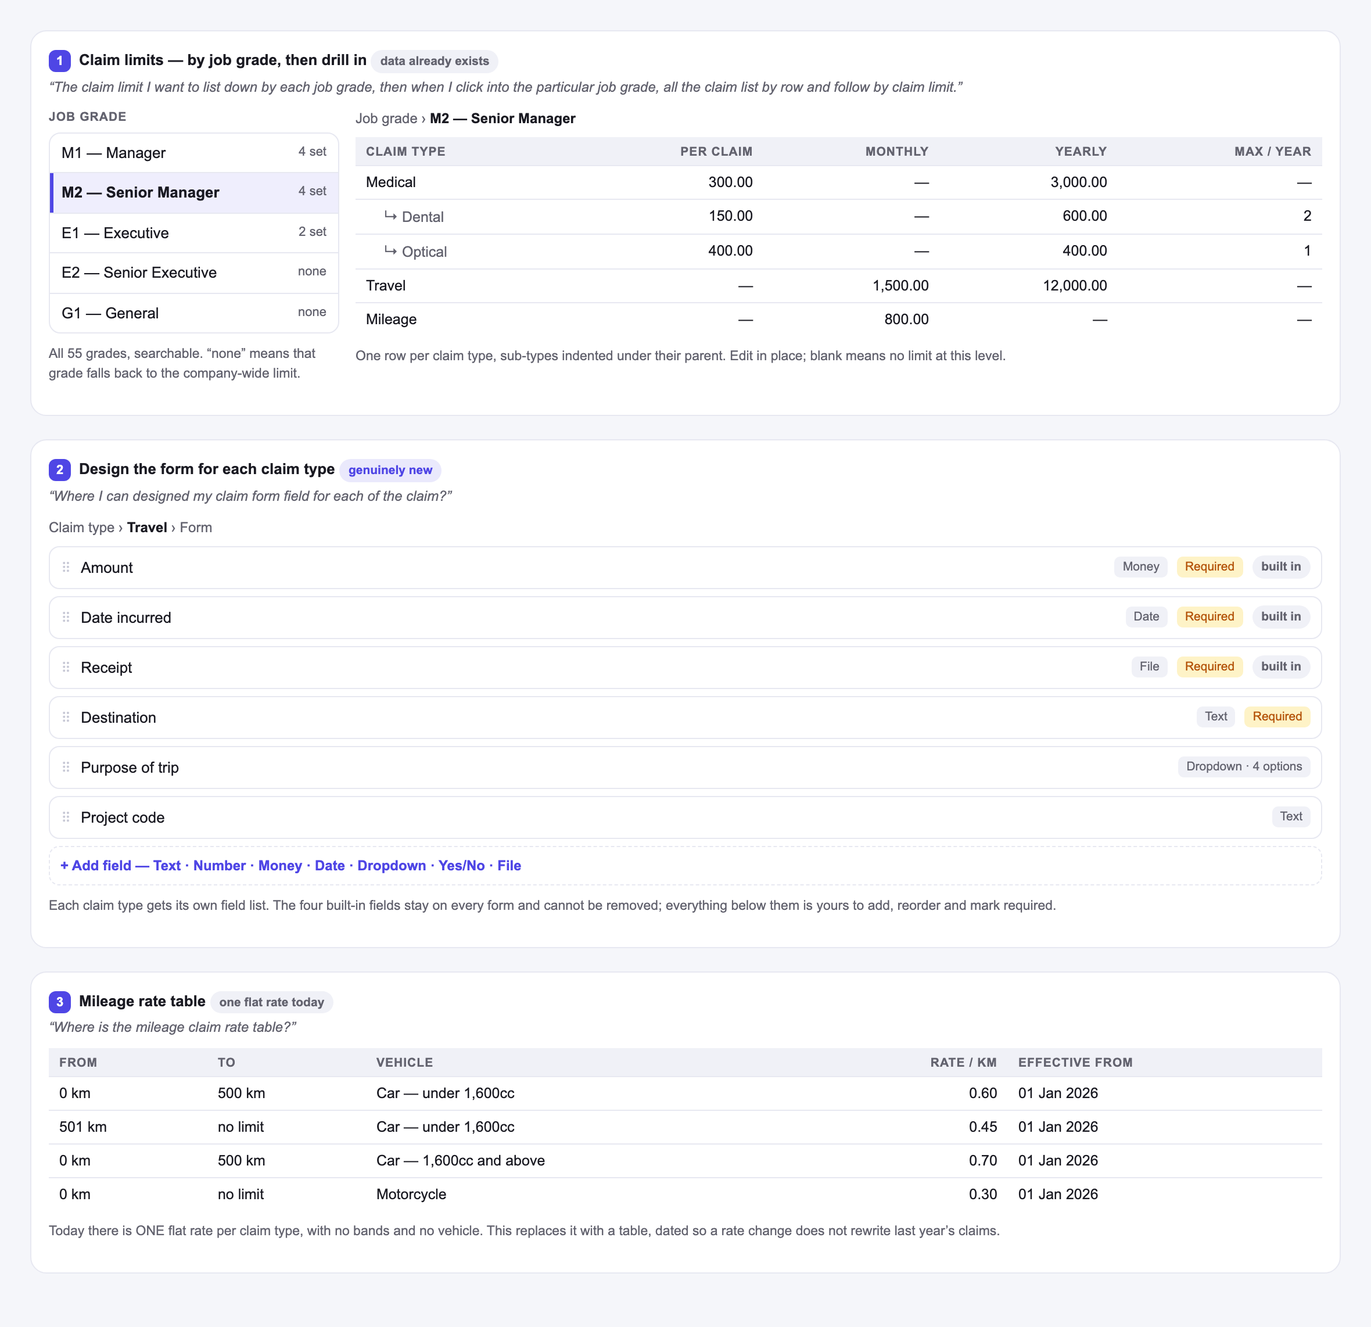
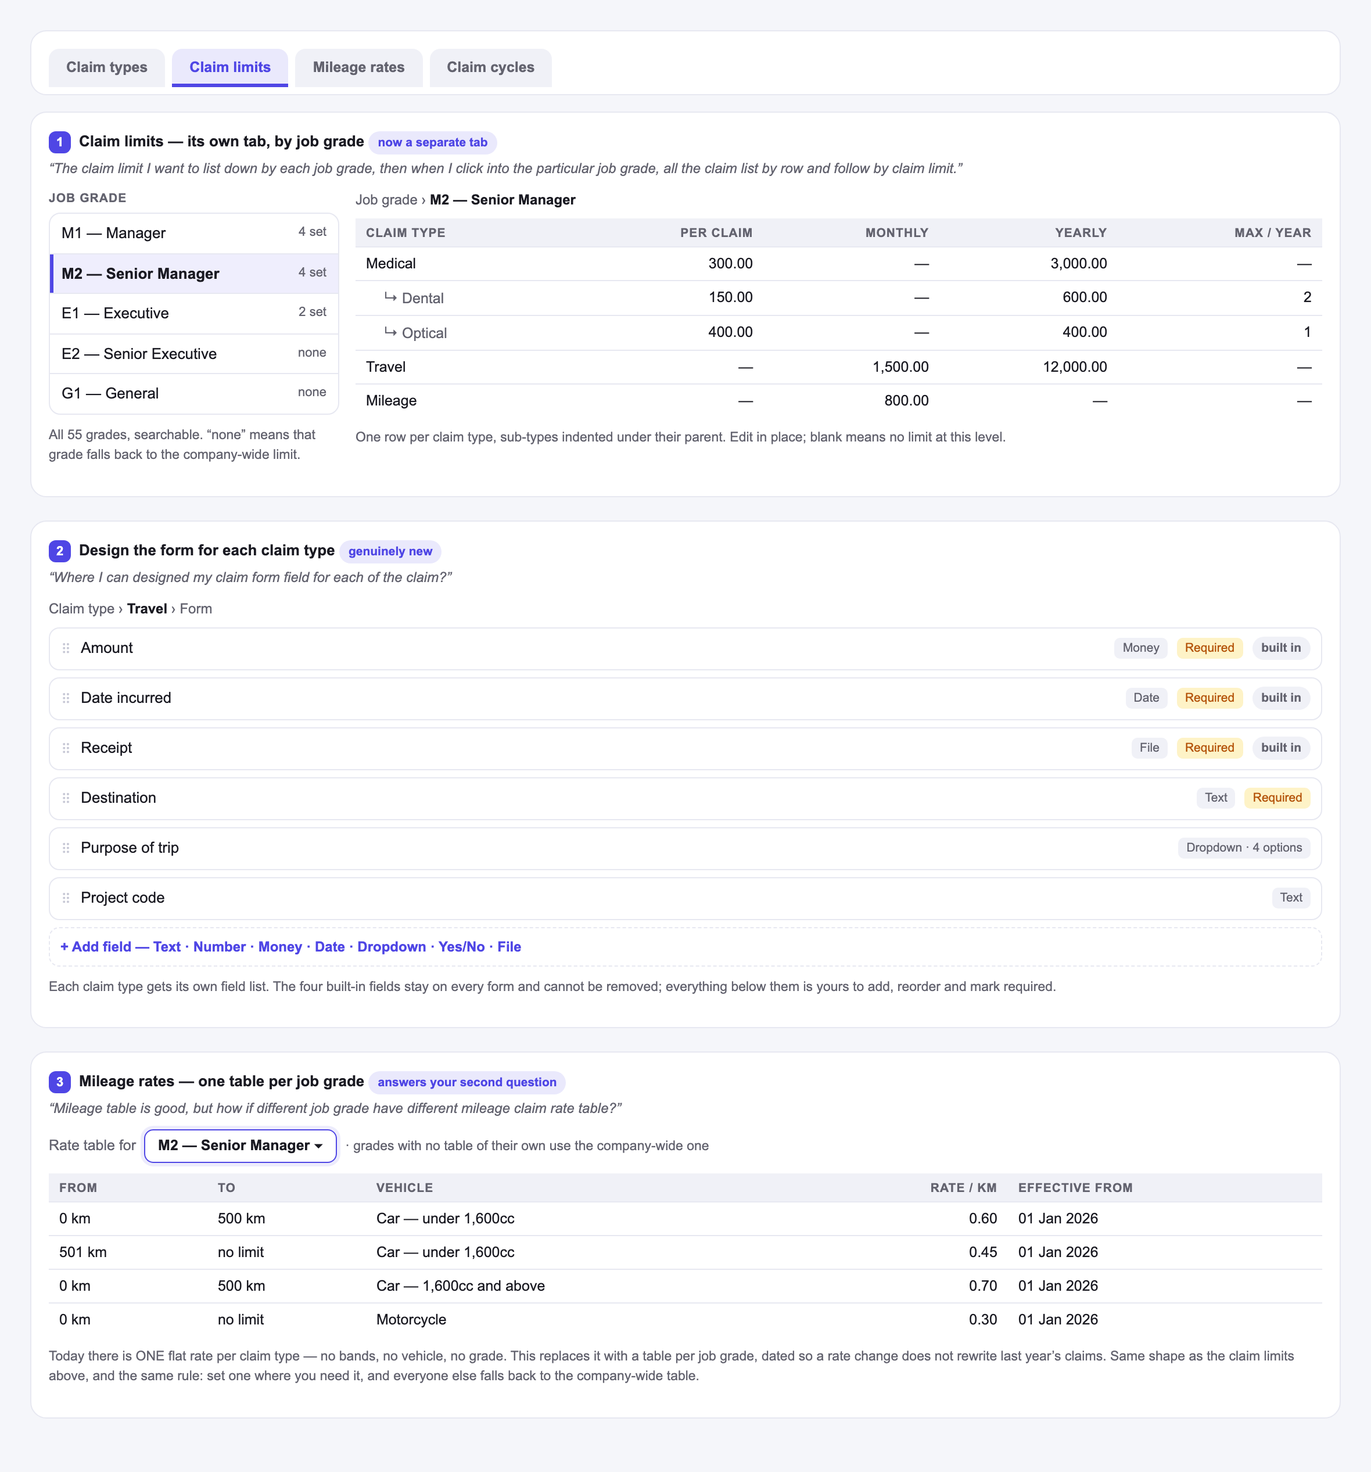
docs/mockups: six items planned, each with a mockup
Reproducing first changed the answer on five of the six:

- 2da9937a (Formula Builder): ALREADY SHIPPED as 61bf109d. core/pay-rule.ts carries a `formula` kind,
  a fixed operand set and a validator; app/admin/pay-components/pay-rule-editor.tsx is the UI;
  test/pay-item-formula.test.ts asserts ringgit figures. Production: 17 of 18 pay components have NO
  rule and ZERO use formula. The two real gaps are both hit by the reporter's own worked example —
  division by a named input is refused outright (deliberately: zero hours would abort the batch), and
  there is no aggregate "all fixed allowances" operand.
- b8aa3466 (attendance): point 1 asks to delete the company work-schedule section as "no longer
  required". 30 of 31 active employees have NO shift — that section is their only schedule on any
  unrostered day, and the calc rules cannot supply a start time. Sequenced, not refused.
- efe1d230 (remove Workflow Guide): the page is not informational. It hosts the eight-check
  per-company readiness report; core/payroll-readiness.ts:330 says Settings runs a cheap subset
  "because it must stay fast … the full per-company report stays on /payroll/guide".
- 6a1f2bd6 + 6d72816e (Zakat, Loans): the two screens cited as the consistent model are not
  consistent with each other — Individual uses the shared collapsible panel, Fixed has its own
  192-line near-copy. And Loans is under Admin, not Payroll › Transaction as the ticket states.
[…]

diff --git a/docs/mockups/txn-employee-panel.html b/docs/mockups/txn-employee-panel.html
@@ -1,0 +1,92 @@
+<meta charset="utf-8">
+<title>One employee panel across the Payroll Transaction screens</title>
+<!--
+  Shared mockup for 6a1f2bd6 (Zakat) and 6d72816e (Loans); the same design da4af51f already carries for
+  Individual Payslip. Deliberately ONE picture for all three, because the point of the plan is that they
+  become one component rather than three lookalikes.
+  Tokens from app/globals.css; everything inline.
+-->
+<style>
+  :root{--bg:#f5f6fa;--fg:#1a1a22;--card:#fff;--primary:#4f46e5;--muted:#f0f1f7;--mf:#63636f;--border:#e7e8f1}
+  *{box-sizing:border-box}
+  body{margin:0;padding:26px;background:var(--bg);color:var(--fg);
+       font:13px/1.5 ui-sans-serif,-apple-system,"Segoe UI",Roboto,Arial,sans-serif}
+  .card{background:var(--card);border:1px solid var(--border);border-radius:14px;padding:16px;margin-bottom:18px}
+  h2{font-size:14px;margin:0 0 4px}
+  .sub{font-size:11.5px;color:var(--mf);margin:0 0 12px}
+  .split{display:grid;grid-template-columns:232px 1fr;gap:16px}
+  .lbl{font-size:10.5px;text-transform:uppercase;letter-spacing:.05em;color:var(--mf);font-weight:600;margin-bottom:5px}
+  input,select{width:100%;padding:6px 9px;border:1px solid var(--border);border-radius:8px;font:inherit;background:#fff;font-size:12px}
+  .filters{display:grid;gap:6px;margin:8px 0}
+  ul{list-style:none;margin:0;padding:0;border:1px solid var(--border);border-radius:10px;overflow:hidden}
+  li{padding:7px 10px;border-bottom:1px solid var(--border);font-size:12.5px}
+  li:last-child{border-bottom:0}
+  li.on{background:color-mix(in srgb,var(--primary) 9%,white);box-shadow:inset 3px 0 0 var(--primary)}
+  .who{font-weight:600}
+  .code{color:var(--mf);font-size:11px}
+  .hide{float:right;color:var(--primary);font-weight:600;font-size:11px}
+  table{width:100%;border-collapse:collapse;font-size:12.5px}
+  th{text-align:left;font-size:10.5px;text-transform:uppercase;letter-spacing:.05em;color:var(--mf);
+     font-weight:600;padding:6px 9px;background:var(--muted)}
+  td{padding:7px 9px;border-top:1px solid var(--border)}
+  .r{text-align:right}
+  .act{color:var(--primary);font-weight:600}
+  .chip{display:inline-block;padding:2px 8px;border-radius:999px;font-size:10.5px;font-weight:600}
+  .ok{background:#d1fae5;color:#065f46}
+  .new{background:color-mix(in srgb,var(--primary) 12%,white);color:var(--primary)}
+  .have{background:var(--muted);color:var(--mf)}
+  .note{font-size:11.5px;color:var(--mf);margin-top:10px}
+  .grid3{display:grid;grid-template-columns:repeat(4,1fr);gap:10px;margin-top:10px}
+  .box{border:1px solid var(--border);border-radius:10px;padding:10px}
+  .box .k{font-weight:600;font-size:12.5px}
+  .box .v{font-size:11.5px;color:var(--mf);margin-top:3px}
+</style>
+
+<div class="card">
+  <h2>The panel, on Zakat <span class="chip new">proposed</span></h2>
+  <p class="sub">Loans is the same screen with a different table. So is Individual Payslip.</p>
+  <div class="split">
+    <div>
+      <div class="lbl">Find employee <span class="hide">‹ Hide</span></div>
+      <input value="tan" aria-label="Search by ID or name">
+      <div class="filters">
+        <select><option>All companies</option></select>
+        <select><option>Finance</option></select>
+        <select><option>Active</option></select>
+      </div>
+      <ul>
+        <li class="on"><div class="who">John Tan</div><div class="code">T100001 · Finance</div></li>
+        <li><div class="who">Tanya Wong</div><div class="code">T100014 · Operations</div></li>
+        <li><div class="who">Sri Tanaraj</div><div class="code">T100022 · Production</div></li>
+      </ul>
+    </div>
+    <div>
+      <table>
+        <thead><tr><th>Effective date</th><th>Zakat type</th><th class="r">Amount</th><th>Status</th><th></th></tr></thead>
+        <tbody>
+          <tr><td>01 Jan 2026</td><td>Monthly Zakat</td><td class="r">100.00</td><td><span class="chip ok">Active</span></td><td class="act">View / Edit</td></tr>
+          <tr><td>01 Jul 2026</td><td>Monthly Zakat</td><td class="r">120.00</td><td><span class="chip ok">Active</span></td><td class="act">View / Edit</td></tr>
+        </tbody>
+      </table>
+      <p class="note">Selecting someone loads their records straight away. Hide the panel and the table takes the full width.</p>
+    </div>
+  </div>
+</div>
+
+<div class="card">
+  <h2>Why this is one job and not three</h2>
+  <p class="sub">What we found when we opened the four screens.</p>
+  <div class="grid3">
+    <div class="box"><div class="k">Individual Transaction <span class="chip ok">has it</span></div>
+      <div class="v">Uses the shared collapsible panel. This is the real model.</div></div>
+    <div class="box"><div class="k">Fixed Transaction <span class="chip have">near-copy</span></div>
+      <div class="v">Its own 192-line picker with the same filters and no collapse. Retiring it into the shared one removes a lookalike.</div></div>
+    <div class="box"><div class="k">Zakat <span class="chip new">this request</span></div>
+      <div class="v">Plain dropdown today.</div></div>
+    <div class="box"><div class="k">Loans <span class="chip new">this request</span></div>
+      <div class="v">Plain dropdown today — and it lives under Admin, not Payroll › Transaction.</div></div>
+  </div>
+  <p class="note">You asked for Zakat and Loans to “match Fixed Transaction and Individual Transaction”. Those two do not
+    currently match each other — they are two different components. Rather than copy either one twice more, we point all
+    four at the one panel that already exists, so the next screen is a one-line change instead of a fifth copy.</p>
+</div>

diff --git a/docs/mockups/2da9937a-formula.html b/docs/mockups/2da9937a-formula.html
@@ -1,0 +1,54 @@
+<meta charset="utf-8"><title>2da9937a — Formula Setting</title>
+<style>
+ :root{--bg:#f5f6fa;--fg:#1a1a22;--card:#fff;--primary:#4f46e5;--muted:#f0f1f7;--mf:#63636f;--border:#e7e8f1}
+ *{box-sizing:border-box}
+ body{margin:0;padding:26px;background:var(--bg);color:var(--fg);font:13px/1.5 ui-sans-serif,-apple-system,"Segoe UI",Roboto,Arial,sans-serif}
+ .card{background:var(--card);border:1px solid var(--border);border-radius:14px;padding:16px;margin-bottom:18px}
+ h2{font-size:14px;margin:0 0 4px}.sub{font-size:11.5px;color:var(--mf);margin:0 0 12px}
+ .chip{display:inline-block;padding:2px 9px;border-radius:999px;font-size:10.5px;font-weight:700}
+ .ok{background:#d1fae5;color:#065f46}.new{background:color-mix(in srgb,var(--primary) 12%,white);color:var(--primary)}
+ .row{display:flex;align-items:center;gap:9px;margin-bottom:7px;flex-wrap:wrap}
+ .op{width:30px;height:30px;border:1px solid var(--border);border-radius:8px;display:flex;align-items:center;justify-content:center;font-weight:700;background:var(--muted)}
+ .tok{border:1px solid var(--primary);border-radius:9px;padding:6px 12px;font-weight:600;background:color-mix(in srgb,var(--primary) 7%,white);font-size:12.5px}
+ .tok.lit{border-color:var(--border);background:#fff;font-weight:400;color:var(--mf)}
+ .tok.gap{border-color:#f59e0b;background:#fffbeb}
+ .lbl{font-size:10.5px;text-transform:uppercase;letter-spacing:.05em;color:var(--mf);font-weight:600;margin:12px 0 6px}
+ .pal{display:flex;gap:6px;flex-wrap:wrap}
+ .pal span{border:1px dashed var(--border);border-radius:8px;padding:5px 10px;font-size:12px;color:var(--mf)}
+ .res{background:var(--muted);border-radius:10px;padding:11px;margin-top:12px;display:flex;justify-content:space-between;font-size:13px}
+ .res b{font-size:16px}
+ .warn{background:#fffbeb;border:1px solid #fcd34d;border-radius:12px;padding:13px;font-size:12.5px}
+ table{width:100%;border-collapse:collapse;font-size:12.5px;margin-top:8px}
+ th{text-align:left;font-size:10.5px;text-transform:uppercase;letter-spacing:.05em;color:var(--mf);font-weight:600;padding:6px 9px;background:var(--muted)}
+ td{padding:7px 9px;border-top:1px solid var(--border)}
+</style>
+<div class="card">
+ <h2>Payroll Item › Overtime › Formula Setting <span class="chip ok">this screen already exists</span></h2>
+ <p class="sub">Built and shipped. Nothing on your system uses it yet — 17 of your 18 payroll items have no calculation rule at all.</p>
+ <div class="lbl">Calculation method</div>
+ <div class="row"><span class="tok">Formula</span><span style="color:var(--mf);font-size:12px">· also available: Fixed · Quantity × Rate · Percent of another item · Per day · Per hour · Flat capped</span></div>
+ <div class="lbl">Formula</div>
+ <div class="row"><span class="tok">Basic salary</span><span class="op">+</span><span class="tok">Fixed allowances</span><span class="chip new">new — a total, not one item</span></div>
+ <div class="row"><span class="op">÷</span><span class="tok gap">Working days</span><span class="chip new">new — dividing by a live value</span></div>
+ <div class="row"><span class="op">÷</span><span class="tok gap">Working hours</span><span class="chip new">new</span></div>
+ <div class="row"><span class="op">×</span><span class="tok lit">1.5</span><span style="color:var(--mf);font-size:12px">rate</span></div>
+ <div class="row"><span class="op">×</span><span class="tok">Input hours</span></div>
+ <div class="lbl">Available inputs</div>
+ <div class="pal"><span>Number</span><span>Basic salary</span><span>Days worked</span><span>Hours worked</span><span>Another payroll item</span><span style="border-color:var(--primary);color:var(--primary)">Fixed allowances (new)</span></div>
+ <div class="res"><span>Preview for John Tan — 8 input hours</span><b>RM 276.92</b></div>
+</div>
+<div class="card warn">
+ <b>The two amber pieces are the real work, and they are there for a reason.</b> Today a formula may only divide by a
+ fixed number, never by a live value. That is deliberate: an employee with zero working hours would divide by zero,
+ produce an impossible figure and stop the whole payroll run. Your example divides by Working Days and Working Hours,
+ so we need to allow it — safely. What we will build: if a divisor comes out as zero for someone, that employee's item
+ pays <b>nothing</b> and they are <b>named on the run</b> for you to look at. The batch never breaks, and no one is
+ silently paid a wrong number.
+ <table>
+  <thead><tr><th>Employee</th><th>Working hours</th><th>Overtime pays</th><th>Why</th></tr></thead>
+  <tbody>
+   <tr><td>John Tan</td><td>8</td><td>RM 276.92</td><td>—</td></tr>
+   <tr><td>Alice Lim</td><td>0</td><td>RM 0.00</td><td>No working hours this period — divisor is zero</td></tr>
+  </tbody>
+ </table>
+</div>

diff --git a/docs/mockups/efe1d230-guide-removal.html b/docs/mockups/efe1d230-guide-removal.html
@@ -1,0 +1,51 @@
+<meta charset="utf-8"><title>efe1d230 — removing Workflow Guide</title>
+<style>
+ :root{--bg:#f5f6fa;--fg:#1a1a22;--card:#fff;--primary:#4f46e5;--muted:#f0f1f7;--mf:#63636f;--border:#e7e8f1}
+ *{box-sizing:border-box}
+ body{margin:0;padding:26px;background:var(--bg);color:var(--fg);font:13px/1.5 ui-sans-serif,-apple-system,"Segoe UI",Roboto,Arial,sans-serif}
+ .card{background:var(--card);border:1px solid var(--border);border-radius:14px;padding:16px;margin-bottom:18px}
+ h2{font-size:14px;margin:0 0 4px}.sub{font-size:11.5px;color:var(--mf);margin:0 0 12px}
+ .two{display:grid;grid-template-columns:1fr 1fr;gap:18px}
+ .nav{border:1px solid var(--border);border-radius:10px;overflow:hidden;font-size:12.5px}
+ .nav div{padding:7px 11px;border-bottom:1px solid var(--border)}.nav div:last-child{border-bottom:0}
+ .gone{text-decoration:line-through;color:#b91c1c;background:#fef2f2}
+ .land{background:color-mix(in srgb,var(--primary) 9%,white);font-weight:600;box-shadow:inset 3px 0 0 var(--primary)}
+ table{width:100%;border-collapse:collapse;font-size:12.5px}
+ th{text-align:left;font-size:10.5px;text-transform:uppercase;letter-spacing:.05em;color:var(--mf);font-weight:600;padding:6px 9px;background:var(--muted)}
+ td{padding:7px 9px;border-top:1px solid var(--border)}
+ .pill{display:inline-block;padding:2px 8px;border-radius:999px;font-size:10.5px;font-weight:700}
+ .ok{background:#d1fae5;color:#065f46}.warn{background:#fef3c7;color:#92400e}.blk{background:#fee2e2;color:#991b1b}
+ .note{font-size:11.5px;color:var(--mf);margin-top:10px}
+ .keep{border:1px solid #fcd34d;background:#fffbeb;border-radius:12px;padding:13px}
+</style>
+<div class="card">
+ <h2>The menu, before and after</h2>
+ <div class="two">
+  <div><p class="sub">Today</p><div class="nav">
+   <div class="gone">Workflow Guide</div><div>Payroll Process</div><div>Transaction</div>
+   <div>Transaction View</div><div>Individual Payslip</div><div>Report</div><div>Settings</div></div></div>
+  <div><p class="sub">Proposed</p><div class="nav">
+   <div class="land">Payroll Process — the landing page</div><div>Transaction</div>
+   <div>Transaction View</div><div>Individual Payslip</div><div>Report</div><div>Settings</div></div></div>
+ </div>
+</div>
+<div class="card">
+ <h2>What that page also does — and this is the part to look at</h2>
+ <p class="sub">It is not only a guide. It carries the full readiness check for every company.</p>
+ <table>
+  <thead><tr><th>Company</th><th>Check</th><th>Status</th><th>What it means</th></tr></thead>
+  <tbody>
+   <tr><td>ABC Manufacturing</td><td>Payroll cycle</td><td><span class="pill ok">Ok</span></td><td>Ready to open a run</td></tr>
+   <tr><td>XYZ Trading</td><td>Pay modes</td><td><span class="pill blk">Blocker</span></td><td>2 employees on a custom period — payroll cannot run</td></tr>
+   <tr><td>Fiamma</td><td>Statutory pack</td><td><span class="pill warn">Warning</span></td><td>Rates are from an older pack version</td></tr>
+   <tr><td>Chin Hin Property</td><td>Default cycle</td><td><span class="pill blk">Blocker</span></td><td>Stored default names a cycle that is no longer active</td></tr>
+  </tbody>
+ </table>
+ <p class="note">Payroll Settings shows a cheap subset of this deliberately, to stay fast, and defers to this page for the
+  full per-company report. Delete the page and the full report goes with it.</p>
+</div>
+<div class="card keep">
+ <b>So we are proposing: remove the menu row and the guidance prose, and move the readiness report onto Payroll Settings,
+ where the short version already lives.</b> You lose the page you do not use and keep the check that tells you which
+ company cannot run payroll and why.
+</div>

diff --git a/docs/mockups/b8aa3466-attendance.html b/docs/mockups/b8aa3466-attendance.html
@@ -1,0 +1,49 @@
+<meta charset="utf-8"><title>b8aa3466 — what the policy section still does</title>
+<style>
+ :root{--bg:#f5f6fa;--fg:#1a1a22;--card:#fff;--primary:#4f46e5;--muted:#f0f1f7;--mf:#63636f;--border:#e7e8f1}
+ *{box-sizing:border-box}
+ body{margin:0;padding:26px;background:var(--bg);color:var(--fg);font:13px/1.5 ui-sans-serif,-apple-system,"Segoe UI",Roboto,Arial,sans-serif}
+ .card{background:var(--card);border:1px solid var(--border);border-radius:14px;padding:16px;margin-bottom:18px}
+ h2{font-size:14px;margin:0 0 4px}.sub{font-size:11.5px;color:var(--mf);margin:0 0 12px}
+ .big{display:grid;grid-template-columns:1fr 1fr;gap:16px;text-align:center}
+ .stat{border:1px solid var(--border);border-radius:12px;padding:16px}
+ .stat.bad{border-color:#fca5a5;background:#fef2f2}
+ .stat .n{font-size:38px;font-weight:800;line-height:1.05}
+ .stat .k{font-size:12px;color:var(--mf);margin-top:5px}
+ .flow{display:grid;grid-template-columns:1fr 24px 1fr 24px 1fr;align-items:center;gap:8px;margin-top:12px}
+ .b{border:1px solid var(--border);border-radius:10px;padding:11px;font-size:12.5px}
+ .b b{display:block;margin-bottom:3px}
+ .b.use{border-color:var(--primary);background:color-mix(in srgb,var(--primary) 7%,white)}
+ .b.dead{border-color:#fca5a5;background:#fef2f2}
+ .ar{text-align:center;color:var(--mf);font-weight:700}
+ .warn{background:#fffbeb;border:1px solid #fcd34d;border-radius:12px;padding:14px;font-size:12.5px}
+ ol{margin:8px 0 0;padding-left:20px;font-size:12.5px}li{margin-bottom:5px}
+</style>
+<div class="card">
+ <h2>Before removing “Company work schedule & overtime rates”</h2>
+ <p class="sub">Counted on your live system today.</p>
+ <div class="big">
+  <div class="stat bad"><div class="n">30</div><div class="k">of 31 employees have NO shift assigned</div></div>
+  <div class="stat"><div class="n">1</div><div class="k">employee has a default shift</div></div>
+ </div>
+</div>
+<div class="card">
+ <h2>How a day gets its schedule today</h2>
+ <p class="sub">The calculation rule supplies grace, overtime and rounding. It does not supply working hours.</p>
+ <div class="flow">
+  <div class="b"><b>Rostered that day?</b>Use the roster's shift. 315 roster rows exist.</div><div class="ar">→</div>
+  <div class="b"><b>Else: default shift?</b>Use it. <b style="color:#b91c1c">1 employee.</b></div><div class="ar">→</div>
+  <div class="b use"><b>Else: company work schedule</b>Start, end, break, working days.<br><b style="color:var(--primary)">This is the section — and for 30 people on any unrostered day, it is the only schedule there is.</b></div>
+ </div>
+</div>
+<div class="card warn">
+ <b>What removing it now would do.</b> Those 30 employees would have no start time to be late against, no end time to
+ leave early against, and no working-days list to say whether a date is a working day at all. Lateness and Early Out
+ would go blank, and every unrostered day would stop classifying. The Lateness, Early Out &amp; Overtime Settings cannot
+ fill the gap — they shape overtime and deductions, they do not say when the day starts.
+ <ol>
+  <li><b>Assign a shift to every employee</b> — a default shift, or roster them. This is the real prerequisite.</li>
+  <li><b>Then</b> we remove the section, and it is a safe deletion rather than a silent one.</li>
+ </ol>
+ We can build a short report showing exactly who still has no shift, so you can see the list shrink to zero.
+</div>

diff --git a/docs/mockups/e7eb5d83-claims.html b/docs/mockups/e7eb5d83-claims.html
@@ -40,8 +40,17 @@
   .note{font-size:11.5px;color:var(--mf);margin-top:9px}
 </style>
 
+<div class="card" style="padding-bottom:6px;margin-bottom:14px">
+  <div style="display:flex;gap:6px">
+    <div style="padding:7px 15px;border-radius:9px 9px 0 0;background:var(--muted);color:var(--mf);font-weight:600;font-size:12.5px">Claim types</div>
+    <div style="padding:7px 15px;border-radius:9px 9px 0 0;background:color-mix(in srgb,var(--primary) 12%,white);color:var(--primary);font-weight:700;font-size:12.5px;box-shadow:inset 0 -3px 0 var(--primary)">Claim limits</div>
+    <div style="padding:7px 15px;border-radius:9px 9px 0 0;background:var(--muted);color:var(--mf);font-weight:600;font-size:12.5px">Mileage rates</div>
+    <div style="padding:7px 15px;border-radius:9px 9px 0 0;background:var(--muted);color:var(--mf);font-weight:600;font-size:12.5px">Claim cycles</div>
+  </div>
+</div>
+
 <div class="card">
-  <h2><span class="num">1</span>Claim limits — by job grade, then drill in <span class="chip have">data already exists</span></h2>
+  <h2><span class="num">1</span>Claim limits — its own tab, by job grade <span class="chip new">now a separate tab</span></h2>
   <p class="q">“The claim limit I want to list down by each job grade, then when I click into the particular job grade, all the claim list by row and follow by claim limit.”</p>
   <div class="split">
     <div>
@@ -87,8 +96,13 @@
 </div>
 
 <div class="card">
-  <h2><span class="num">3</span>Mileage rate table <span class="chip have">one flat rate today</span></h2>
-  <p class="q">“Where is the mileage claim rate table?”</p>
+  <h2><span class="num">3</span>Mileage rates — one table per job grade <span class="chip new">answers your second question</span></h2>
+  <p class="q">“Mileage table is good, but how if different job grade have different mileage claim rate table?”</p>
+  <div style="display:flex;gap:7px;align-items:center;margin-bottom:9px;font-size:12.5px">
+    <span style="color:var(--mf)">Rate table for</span>
+    <span style="border:1px solid var(--primary);border-radius:8px;padding:4px 11px;font-weight:600;box-shadow:0 0 0 3px color-mix(in srgb,var(--primary) 10%,transparent)">M2 — Senior Manager ▾</span>
+    <span style="color:var(--mf);font-size:11.5px">· grades with no table of their own use the company-wide one</span>
+  </div>
   <table>
     <thead><tr><th>From</th><th>To</th><th>Vehicle</th><th class="r">Rate / km</th><th>Effective from</th></tr></thead>
     <tbody>
@@ -98,5 +112,7 @@
       <tr><td>0 km</td><td>no limit</td><td>Motorcycle</td><td class="r">0.30</td><td>01 Jan 2026</td></tr>
     </tbody>
   </table>
-  <p class="note">Today there is ONE flat rate per claim type, with no bands and no vehicle. This replaces it with a table, dated so a rate change does not rewrite last year’s claims.</p>
+  <p class="note">Today there is ONE flat rate per claim type — no bands, no vehicle, no grade. This replaces it with a
+    table per job grade, dated so a rate change does not rewrite last year’s claims. Same shape as the claim limits above,
+    and the same rule: set one where you need it, and everyone else falls back to the company-wide table.</p>
 </div>
